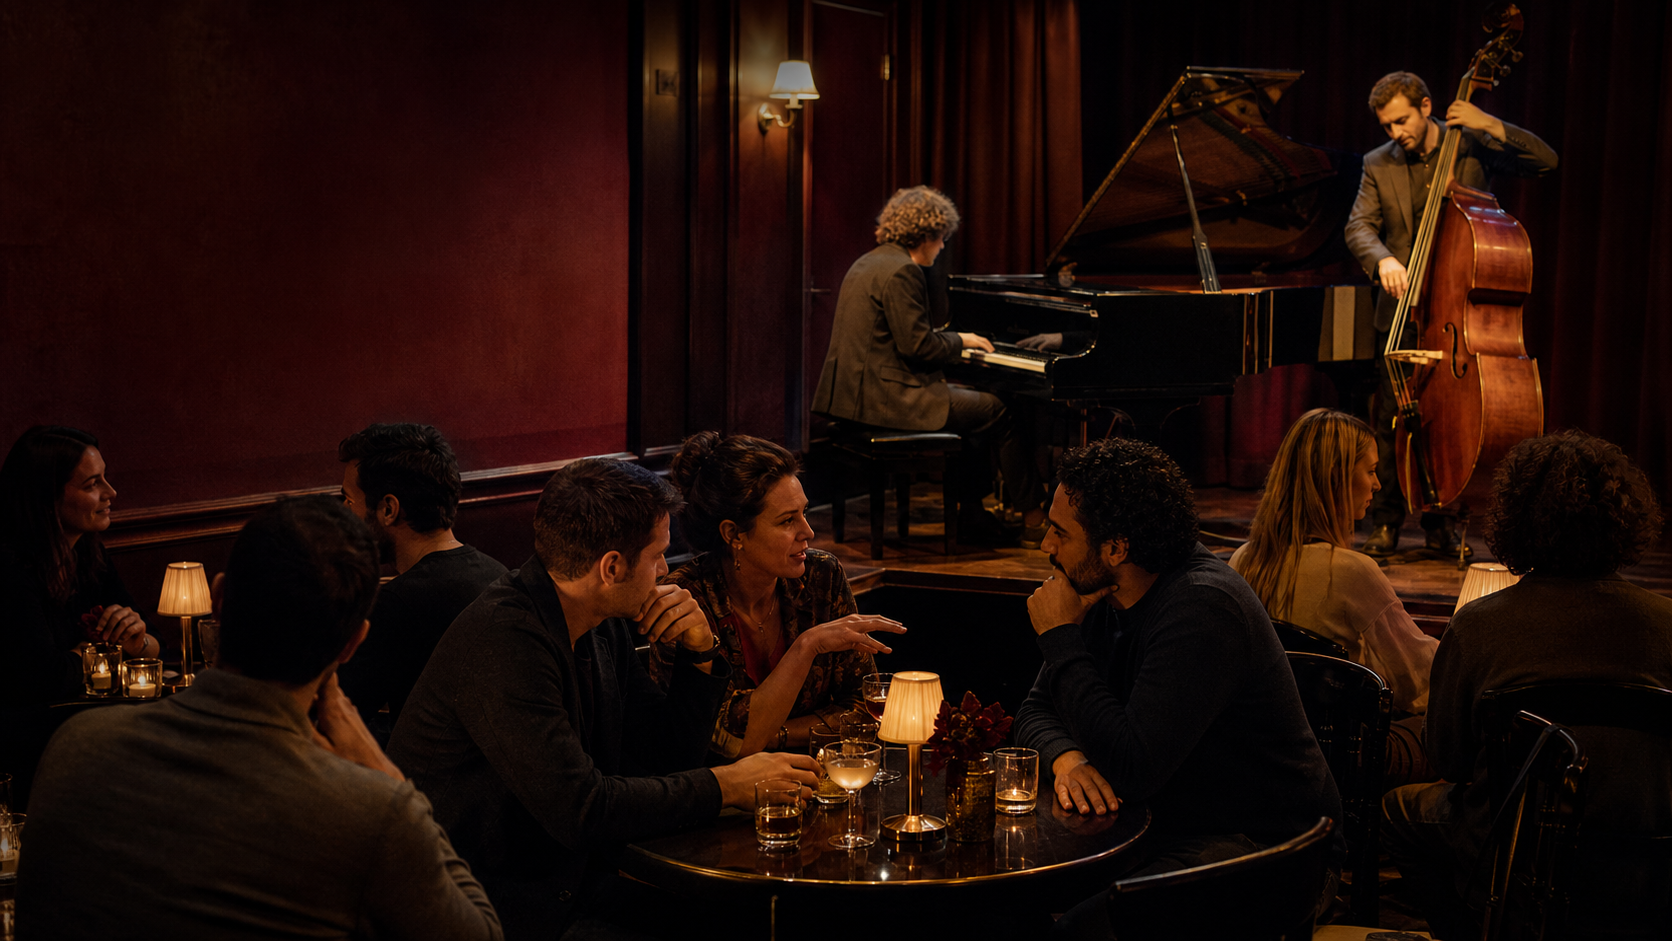
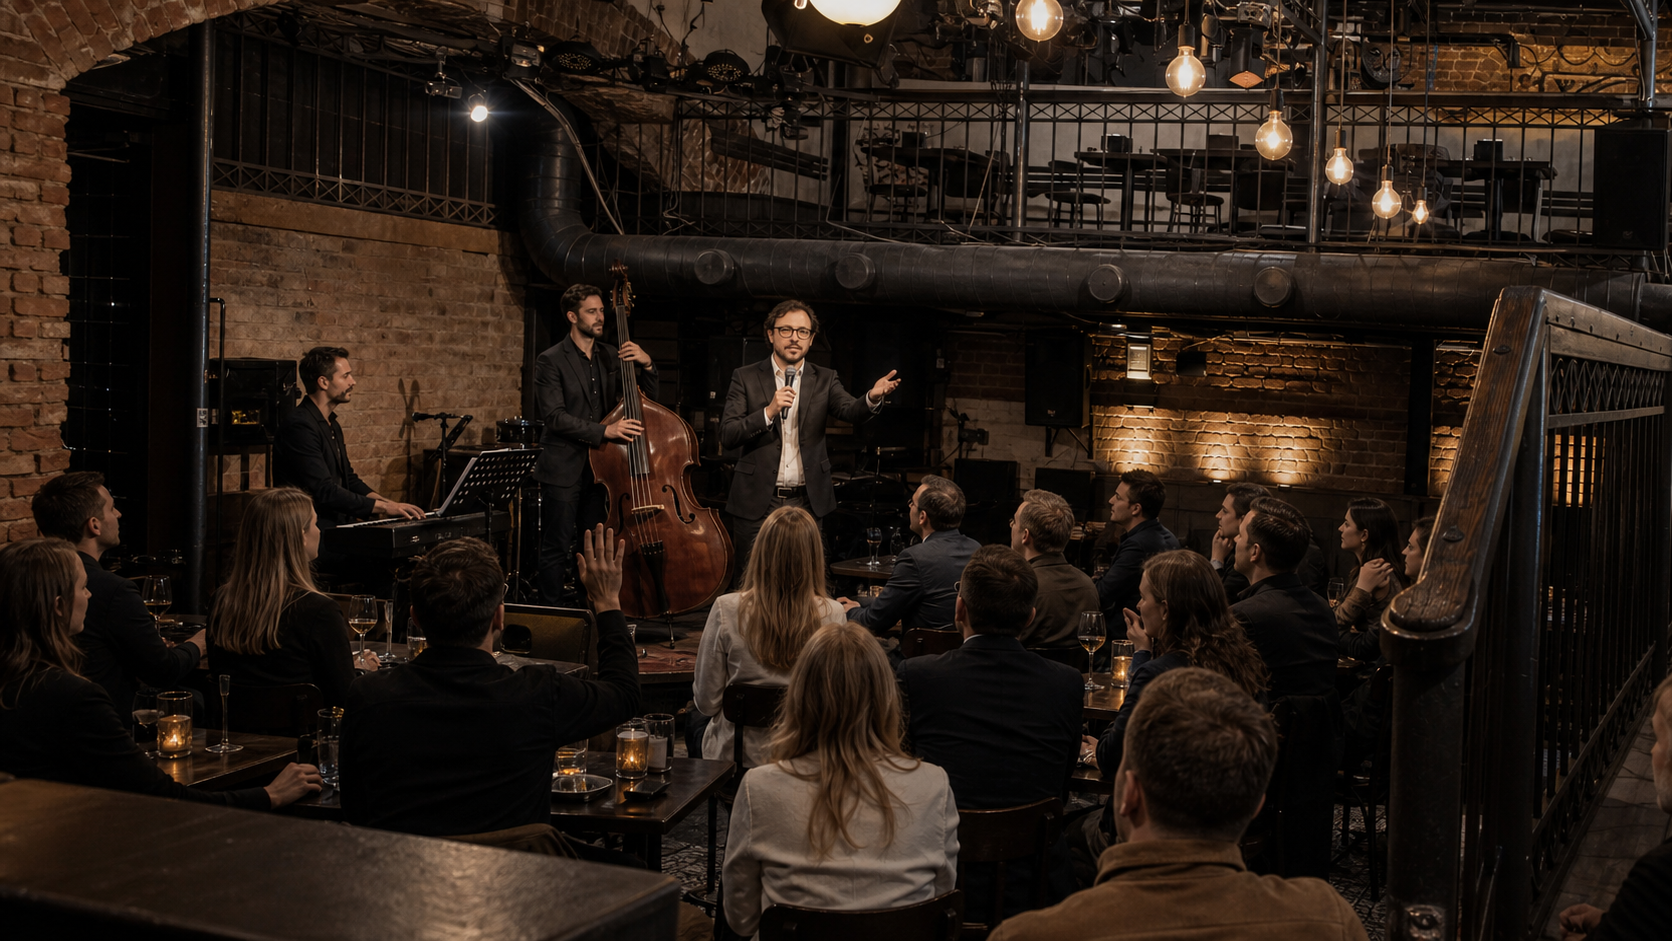
Revise venue announcement visual

diff --git a/PROJECT_STATE.md b/PROJECT_STATE.md
@@ -14,7 +14,7 @@
 - `Джаз вечер. /Лендинг версия C/app/analytics.ts` — цели кликов по билетам, Telegram и WhatsApp.
 - `Джаз вечер. /Лендинг версия C/tests/rendered-html.test.mjs` — проверки сборки, фактов и ссылок.
 - `docs/venue-announcement-package-2026-09-19.md` — готовый текстовый пакет для анонса площадки.
-- `assets/venue-announcement/` — PNG-исходник и облегчённый WebP для анонса.
+- `assets/venue-announcement/` — актуальные PNG и WebP для анонса.
 - Корневые HTML, TXT, ассеты и `_next/` — статическая сборка GitHub Pages.
 
 ## Ключевые решения
@@ -26,6 +26,7 @@
 - WhatsApp — `https://wa.me/79032405040`; его не менять без нового указания.
 - Для 1–6 билетов используются шесть фиксированных ссылок Prodamus.
 - Визуал для площадки сделан без текста и логотипов, чтобы редакция могла добавить свою типографику.
+- В анонсном визуале гости должны быть обращены к сцене; ведущий и музыканты находятся на сцене, интерьер опирается на реальный индустриальный зал МИЛК.
 - На будущее задумана необязательная авторская видеодорожка; подробности зафиксированы в `DECISIONS.md`.
 
 ## Что сделано
@@ -34,7 +35,7 @@
 - Полный адрес, вход и ближайшие станции метро добавлены в FAQ; адрес также есть в подвале.
 - Проходят lint, vinext build, Next.js static export и 10 тестов.
 - Подготовлен пакет для площадки с коротким и полным анонсом, карточкой фактов, сведениями о ведущем, контактами и SEO-полями.
-- Создан горизонтальный визуал 1672 × 941 px; PNG и WebP сохранены в проекте.
+- Анонсный визуал переработан по обратной связи: Вадим и музыканты находятся на сцене, зал вовлечён в общий разговор, архитектура и свет приближены к реальному МИЛК.
 
 ## Что дальше
 

diff --git a/docs/venue-announcement-package-2026-09-19.md b/docs/venue-announcement-package-2026-09-19.md
@@ -58,10 +58,10 @@
 
 - Для сайта, WebP, 1672 × 941 px: `assets/venue-announcement/conversation-jazz-2026-09-19-website.webp`
 - Исходник без потерь, PNG, 1672 × 941 px: `assets/venue-announcement/conversation-jazz-2026-09-19-master.png`
-- Alt-текст: «Гости беседуют за столиками, пока пианист и контрабасист импровизируют на сцене».
-- Рекомендуемая подпись: «Разговор × Джаз — вечер, где беседа становится музыкой».
+- Alt-текст: «Вадим Бондаренко ведёт общий разговор с гостями; рядом на сцене пианист и контрабасист».
+- Рекомендуемая подпись: «Разговор × Джаз — вечер, где общий разговор становится музыкой».
 
-Изображение намеренно сделано без надписей и логотипов: площадка сможет добавить свою типографику и кадрировать его под шаблон сайта. Спокойная зона слева подходит для заголовка.
+Изображение намеренно сделано без надписей и логотипов: площадка сможет добавить свою плашку и кадрировать его под шаблон сайта.
 
 ## SEO-поля, если нужны
 
